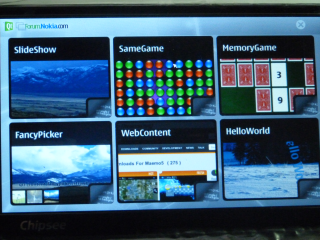
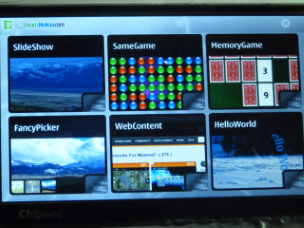
resized image

diff --git a/index.html b/index.html
@@ -33,7 +33,7 @@
 <a name="welcome-to-github-pages for the BeagleBone Black book at Packt Publishing" class="anchor" href="#welcome-to-github-pages"><span class="octicon octicon-link"></span></a>Welcome to GitHub Pages.</h3>
 
 <h2> Welcome </h2>
-<img src="Chipsee_QML.png" alt="Chipsee QML" style="width:320px;height:240px">
+<img src="Chipsee_QML.png" alt="Chipsee QML" style="width:304px;height:228px">
 
 <p>This web site owns the sources as explained in the different chapters in the book. 
 You can either get the compressed files in zip or tar.gz formats but the best is to use the git tools.
